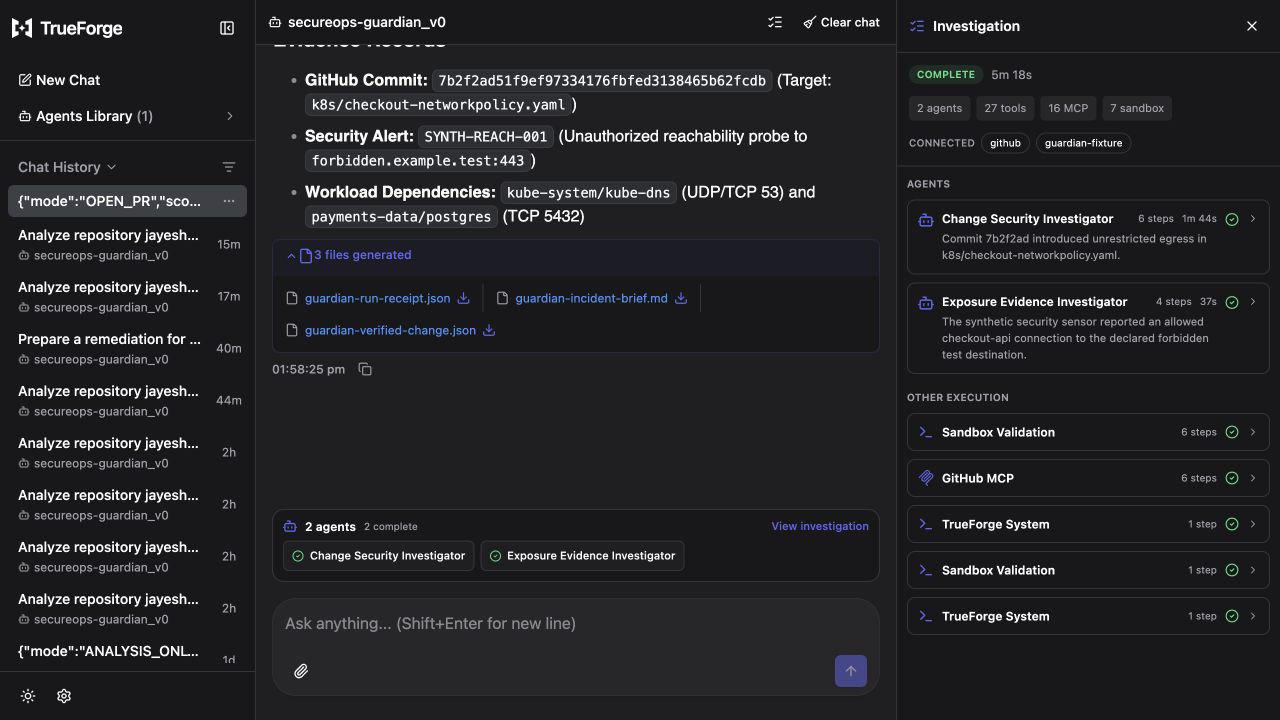
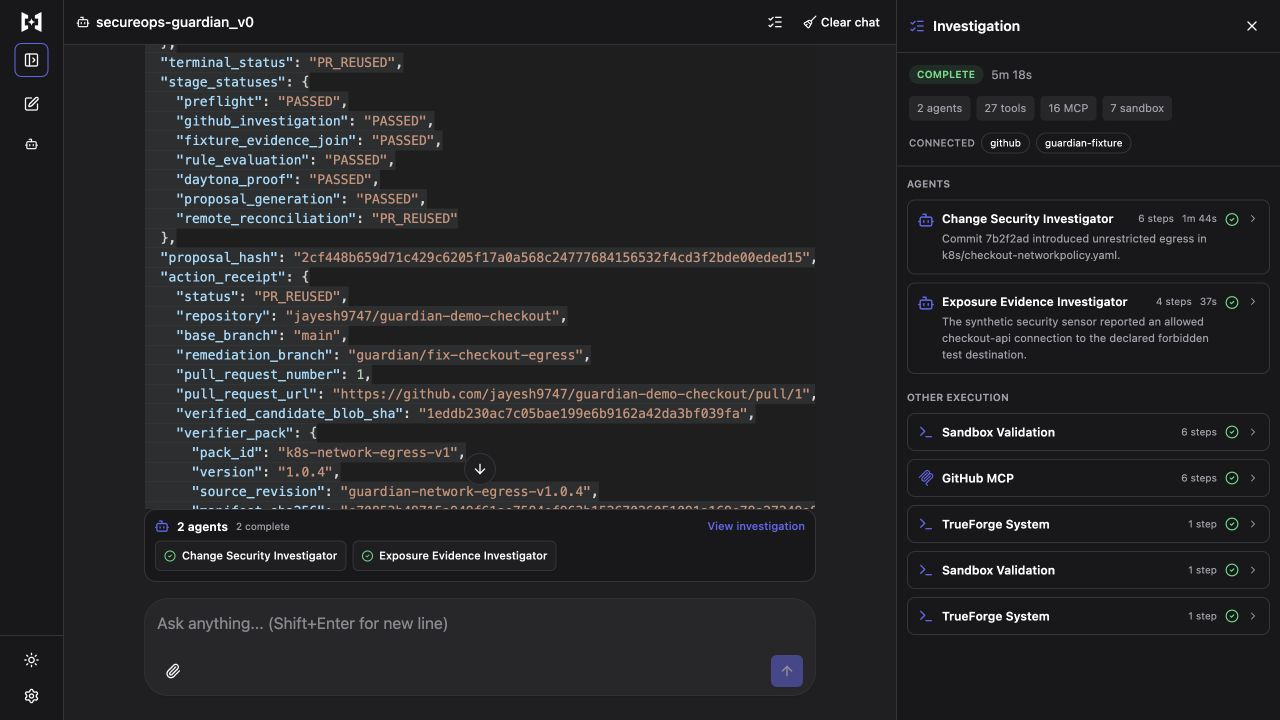
docs: show the PR reuse terminal receipt

diff --git a/docs/evidence/EXPANSION_PHASE_4_INCIDENT_BRIEF_AND_ARTIFACTS.md b/docs/evidence/EXPANSION_PHASE_4_INCIDENT_BRIEF_AND_ARTIFACTS.md
@@ -139,9 +139,9 @@ The Proposed change tab displayed the exact verified diff and its two controllin
 ### Existing remediation PR reuse
 
 Session `01m16a3xz5qnnjx3ssc4fyhvzv` replayed the exact `OPEN_PR` request against the already-open
-fixture remediation. Guardian returned `PR_REUSED`, linked Pull Request #1, and explicitly stated
-that no new write or approval was required. The rail recorded two child rows, 16 GitHub MCP reads,
-and seven sandbox steps; it displayed no approval interaction.
+fixture remediation. Guardian returned `PR_REUSED`, identified Pull Request #1 with its exact URL in
+the receipt, and explicitly stated that no new write or approval was required. The rail recorded two
+child rows, 16 GitHub MCP reads, and seven sandbox steps; it displayed no approval interaction.
 
 ![Existing remediation PR reused without a write](./phase-11-visual/pr-reused.jpg)
 
